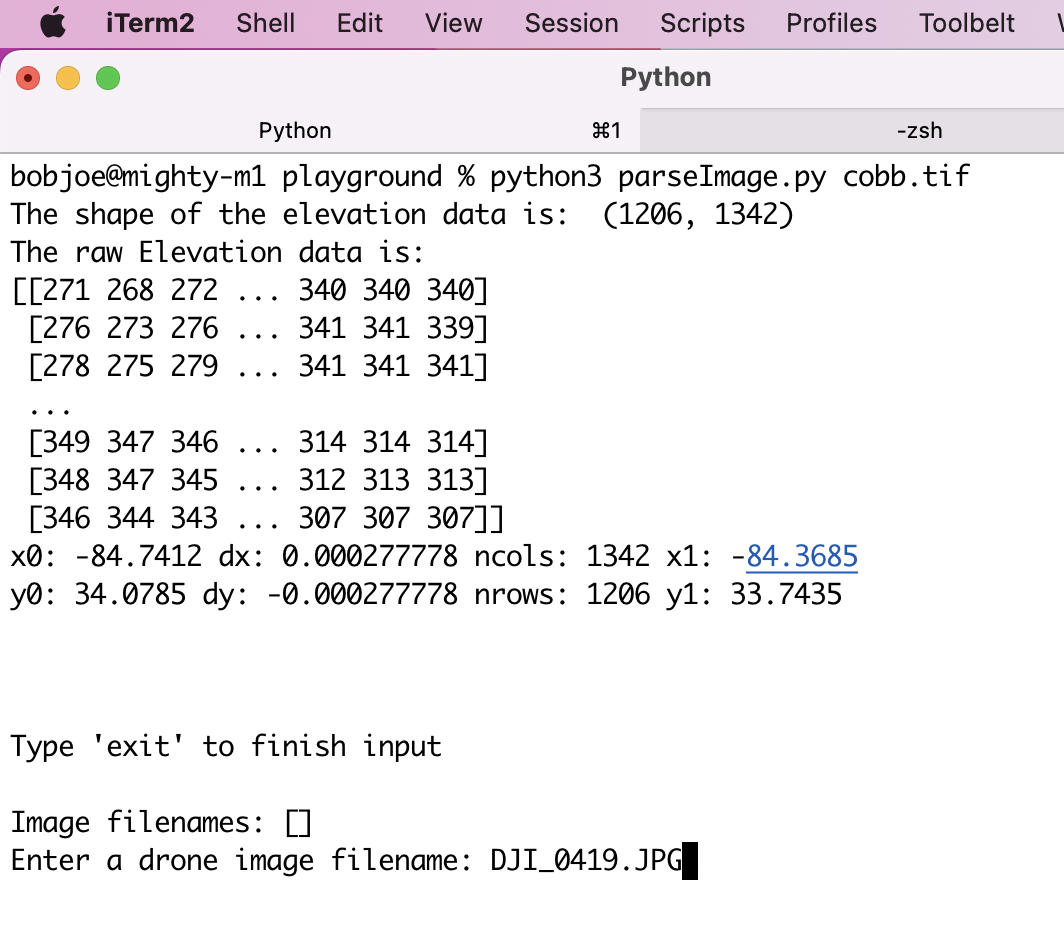
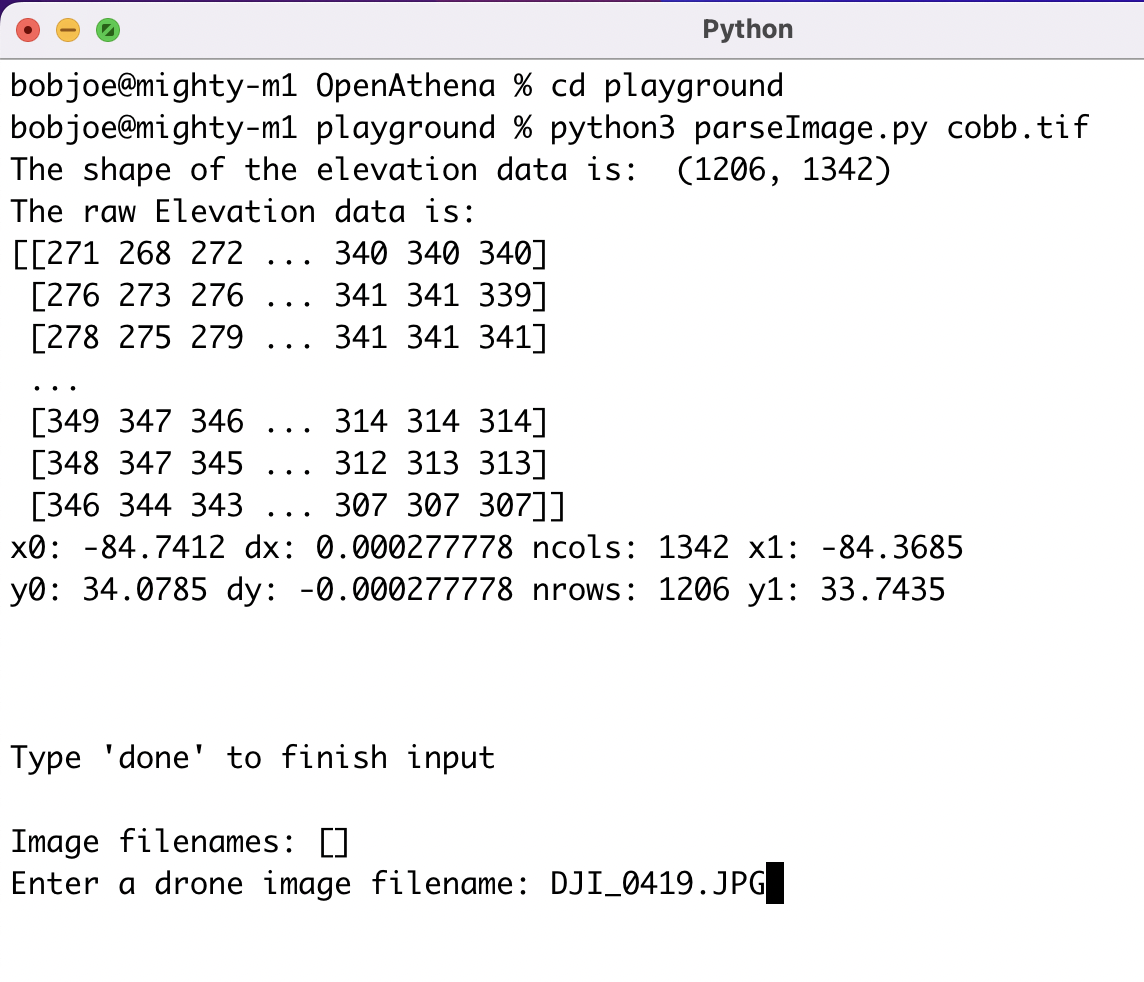
Add MGRS 10m & 100m 🗺

Changed region(s): [[0.0, 0.0, 1.0, 0.6465], [0.0, 0.8312, 0.7133, 0.9544], [0.0, 0.7389, 0.4342, 0.8004]]

diff --git a/playground/parseImage.py b/playground/parseImage.py
@@ -33,8 +33,18 @@ import decimal # more float precision with Decimal objects
 from osgeo import gdal # en.wikipedia.org/wiki/GDAL
 import mgrs # Military Grid ref converter
 
+from PIL import Image
+from PIL import ExifTags
+
+# XML
+#     read-only
+import xml.sax as sax
+#     write and mangle
+#     tutorialspoint.com/xml-parsing-in-python
+import xml.etree.ElementTree as ET
+
+
 # unused :(
-# import xml.sax
 # from libxmp.utils import file_to_dict # python-xmp-toolkit, (c) ESA
 
 from geotiff_play import getAltFromLatLon, binarySearchNearest
@@ -45,7 +55,6 @@ from getTarget import *
        and use resolveTarget() to give
        target location(s)
 
-    @TODO not finished yet!
 """
 def parseImage():
     images = []
@@ -91,12 +100,12 @@ def parseImage():
 
     if not images: # not run in headless mode
         imageName = ""
-        print("\nType \'exit\' to finish input\n")
-        while imageName.lower() != 'exit':
+        print("\nType \'done\' to finish input\n")
+        while imageName.lower() != 'done':
             print(f'Image filenames: {images}')
             imageName = str(input("Enter a drone image filename: "))
             imageName.strip()
-            if imageName.lower() != 'exit':
+            if imageName.lower() != 'done':
                 images.append(imageName)
         #
     #
@@ -119,14 +128,24 @@ def parseImage():
             xmp_str = d[xmp_start:xmp_end+12]
             fd.close()
 
+            exifData = {}
+            img = Image.open(thisImage)
+            exifDataRaw = img._getexif()
+            for tag, value in exifDataRaw.items():
+                decodedTag = ExifTags.TAGS.get(tag, tag)
+                exifData[decodedTag] = value
+
+            # print(exifData)
+
             # agisoft.com/forum/index.php?topic=5008.0
             # Alexey Pasumansky
-            makeTag = "tiff:Make="
+            # makeTag = "tiff:Make="
             if xmp_start != xmp_end:
-                tagStart = xmp_str.find(makeTag)
-                make = xmp_str[tagStart + len(makeTag) : tagStart + len(makeTag) + 10]
-                make = str(make.split('\"',3)[1])
-                # print(f'make: {make}')
+                # tagStart = xmp_str.find(makeTag)
+                # xmpMake = xmp_str[tagStart + len(makeTag) : tagStart + len(makeTag) + 10]
+                # xmpMake = str(xmpMake.split('\"',3)[1])
+                # print(f'xmpMake: {xmpMake}')
+                make = exifData["Make"].upper()
                 if make == "DJI":
                     sensData = handleDJI(xmp_str)
                     if sensData is not None:
@@ -136,6 +155,17 @@ def parseImage():
                         print(f'ERROR with {thisImage}, couldn\'t find sensor data', file=sys.stderr)
                         print(f'skipping {thisImage}', file=sys.stderr)
                         continue
+                elif make == "SKYDIO":
+                    print(f'ERROR with {thisImage}, Mfr. \'{make}\' not compatible with this program', file=sys.stderr)
+                    print(f'skipping {thisImage}', file=sys.stderr)
+                    # sensData = handleSKYDIO(xmp_str)
+                    # if sensData is not None:
+                    #     y, x, z, azimuth, theta = sensData
+                    #     target = resolveTarget(y, x, z, azimuth, theta, elevationData, xParams, yParams)
+                    # else:
+                    #     print(f'ERROR with {thisImage}, couldn\'t find sensor data', file=sys.stderr)
+                    #     print(f'skipping {thisImage}', file=sys.stderr)
+                    #     continue
                 elif False: # your drone make here
                     # <----YOUR HANDLER FUNCTION HERE---->
                     pass
@@ -162,11 +192,20 @@ def parseImage():
                 #     other than the file extension
                 filename = thisImage.split('.')[0] + ".ATHENA"
                 file_object = open(filename, 'w')
+
+                m = mgrs.MGRS()
+                targetMGRS = m.toMGRS(tarY, tarX)
+                targetMGRS10m = m.toMGRS(tarY,tarX, MGRSPrecision=4)
+                targetMGRS100m = m.toMGRS(tarY, tarX, MGRSPrecision=3)
+
                 file_object.write(str(tarY) + "\n")
                 file_object.write(str(tarX) + "\n")
                 file_object.write(str(terrainAlt) + "\n")
                 file_object.write(str(finalDist))
-                file_object.write("\n# format: lat, lon, alt, dist")
+                file_object.write(targetMGRS)
+                file_object.write(targetMGRS10m)
+                file_object.write(targetMGRS100m)
+                file_object.write("\n# format: lat, lon, alt, dist, MGRS 1m, MGRS 10m, MGRS 100m")
 
                 file_object.close()
             else:
@@ -184,11 +223,14 @@ def parseImage():
                 # via github.com/hobuinc/mgrs
                 m = mgrs.MGRS()
                 targetMGRS = m.toMGRS(tarY, tarX)
+                targetMGRS10m = m.toMGRS(tarY,tarX, MGRSPrecision=4)
+                targetMGRS100m = m.toMGRS(tarY, tarX, MGRSPrecision=3)
                 print(f'NATO MGRS: {targetMGRS}\n')
-
+                print(f'MGRS 10m: {targetMGRS10m}\n')
+                print(f'MGRS 100m: {targetMGRS100m}\n')
     #
 
-"""takes a xmp metadata from a DJI drone,
+"""takes a xmp metadata string from a DJI drone,
 returns tuple (y, x, z, azimuth, theta)
 
 Parameters
@@ -207,18 +249,16 @@ def handleDJI( xmp_str ):
                             "drone-dji:GimbalPitchDegree=",
                             # ...not relative to these values
                             # https://developer.dji.com/iframe/mobile-sdk-doc/android/reference/dji/sdk/Gimbal/DJIGimbal.html
-                            # may be different for other mfns.
+                            # could be different for other mfns.?
                             "drone-dji:FlightRollDegree=",
                             "drone-dji:FlightYawDegree=",
                             "drone-dji:FlightPitchDegree="]
-    dict = { }
-    if len(xmp_str.strip()) > 0:
-        for element in elements:
-            value = xmp_str[xmp_str.find(element) + len(element) : xmp_str.find(element) + len(element) + 10]
-            value = float(value.split('\"',3)[1])
-            dict[element] = value
-    else:
+
+    dict = xmp_parse( xmp_str, elements)
+    if dict is None:
         return None
+
+    # print( xmp_str )
 
     y = dict["drone-dji:GpsLatitude="]
     x = dict["drone-dji:GpsLongitude="]
@@ -232,6 +272,65 @@ def handleDJI( xmp_str ):
         return None
     else:
         return (y, x, z, azimuth, theta)
+
+"""takes a xmp metadata string from a Skydio drone,
+returns tuple (y, x, z, azimuth, theta)
+
+Parameters
+----------
+xmp_str: string
+    a string containing the contents of XMP metadata of a Skydio drone image
+"""
+def handleSKYDIO( xmp_str ):
+    # Skydio has multiple frame of reference tags with same children
+    #     (i.e. "Yaw", "Pitch", etc.)
+    #     will need to parse as XML :(
+    elements = ["drone-skydio:AbsoluteAltitude=",
+                            "drone-skydio:Latitude=",
+                            "drone-skydio:Longitude="
+                            "drone-skydio:Yaw=" # name collision :(
+
+                            ]
+
+
+    dict = xmp_parse( xmp_str, elements)
+    if dict is None:
+        return None
+
+    # print(xmp_str)
+
+    y = dict["drone-skydio:Latitude="]
+    x = dict["drone-skydio:Longitude="]
+    z = dict["drone-dji:AbsoluteAltitude="]
+
+    # azimuth = dict[
+    # theta = abs(
+    return None
+
+"""takes a xmp metadata string and a list of keys
+return a dictionary of key, value pairs
+       ...or None if xmp_str is empty
+
+Parameters
+----------
+xmp_str: string
+    a string containing the contents of XMP metadata
+elements: string[]
+    a list of strings, each string is a key for which to search XMP data
+    for its corresponding value
+"""
+def xmp_parse ( xmp_str, elements ):
+    dict = {}
+    if len(xmp_str.strip()) > 0:
+        for element in elements:
+            value = xmp_str[xmp_str.find(element) + len(element) : xmp_str.find(element) + len(element) + 10]
+            value = float(value.split('\"',3)[1])
+            dict[element] = value
+    else:
+        return None
+
+    return dict
+
 
 if __name__ == "__main__":
     parseImage()

diff --git a/playground/getTarget.py b/playground/getTarget.py
@@ -79,7 +79,11 @@ def getTarget():
         # via github.com/hobuinc/mgrs
         m = mgrs.MGRS()
         targetMGRS = m.toMGRS(tarY, tarX)
+        targetMGRS10m = m.toMGRS(tarY,tarX, MGRSPrecision=4)
+        targetMGRS100m = m.toMGRS(tarY, tarX, MGRSPrecision=3)
         print(f'NATO MGRS: {targetMGRS}\n')
+        print(f'MGRS 10m: {targetMGRS10m}\n')
+        print(f'MGRS 100m: {targetMGRS100m}\n')
 
 """get and open a geoFile named by a string
     e.g. from a command line argument
@@ -89,13 +93,10 @@ def getTarget():
 """
 def getGeoFileFromString(geofilename):
     geofilename.strip()
-    try:
-        geoFile = gdal.Open(geofilename)
-    except:
+    geoFile = gdal.Open(geofilename)
+    if geoFile is None:
         outstr = f'FATAL ERROR: can\'t find file with name \'{geofilename}\''
-        print(outstr, file=sys.stderr)
         sys.exit(outstr)
-    #
 
     band = geoFile.GetRasterBand(1)
     elevationData = band.ReadAsArray()
@@ -302,7 +303,7 @@ def resolveTarget(y, x, z, azimuth, theta, elevationData, xParams, yParams):
         avgAlt = curZ
         # deltaz should always be negative
         curZ += deltaz
-        avgAlt = (avgAlt + curZ) / decimal.Decimal(2)
+        avgAlt = (avgAlt + curZ) / 2
         curY, curX = inverse_haversine((curY,curX), horizScalar*increment, azimuth, avgAlt)
         #check for Out Of Bounds after each iteration
         if curY > y0 or curY < y1 or curX < x0 or curX > x1:
